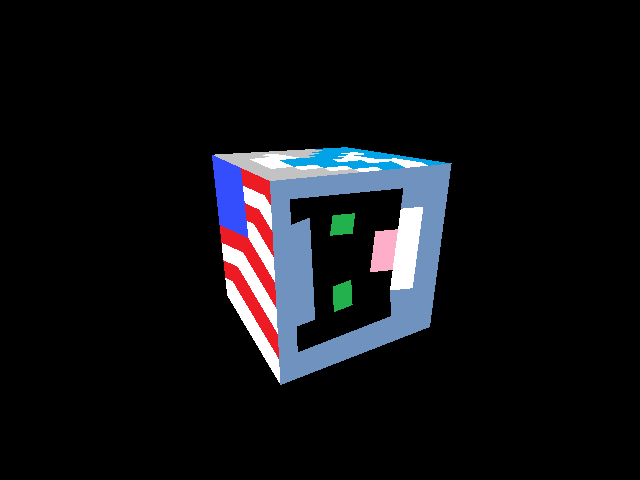
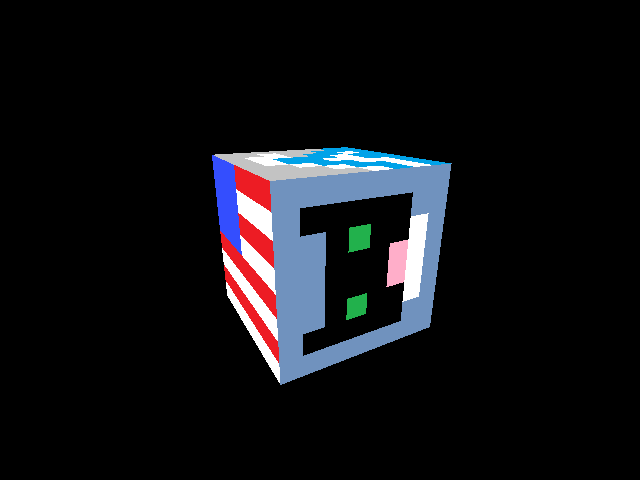
Perspective correct texture coordinate interpolation

Changed region(s): [[0.3438, 0.3125, 0.6875, 0.75]]

diff --git a/rasterize.h b/rasterize.h
@@ -4,6 +4,23 @@
 #include "triangle.h"
 
 template <typename T>
+T perspectiveCorrectBaryInterp(T const &a, T const &b, T const &c, Vec const &bary, Vec const &ws)
+{
+	Vec invWs(1 / ws.x, 1 / ws.y, 1 / ws.z);
+
+	float invWInterp = baryInterp(invWs.x, invWs.y, invWs.z, bary);
+
+	T val = 
+		(invWs.x * bary.x * a) + 
+		(invWs.y * bary.y * b) + 
+		(invWs.z * bary.z * c);
+
+	T correct = (1.0 / invWInterp) * val;
+
+	return correct;
+}
+
+template <typename T>
 T baryInterp(T const &a, T const &b, T const &c, Vec const &bary)
 {
 	return bary.x * a + bary.y * b + bary.z * c;
@@ -47,7 +64,8 @@ void rasterize(Triangle const &t, Interpolants *interps, Array2D<float> &zbuf, A
 			if (pt.z < zbuf(x, y))
 			{
 				zbuf(x, y) = pt.z;
-				fragments(x, y) = baryInterp(interps[0], interps[1], interps[2], bary);
+				Vec ws(t.a.w, t.b.w, t.c.w);
+				fragments(x, y) = perspectiveCorrectBaryInterp(interps[0], interps[1], interps[2], bary, ws);
 			}
 		}
 	}

diff --git a/msvc/test/main.cpp b/msvc/test/main.cpp
@@ -45,6 +45,7 @@ void textureMap(Array2D<Vec> const &coords, Array2D<ColorRGBA> const &texture, A
 			else
 			{
 				Vec coord = coords(y, x);
+				//auto interp = bilinear(texture, coord[0], coord[1]);
 				auto interp = nearestNeighbor(texture, coord[0], coord[1]);
 				img(y, x) = interp;
 			}
@@ -208,11 +209,17 @@ void rotateCube(sf::RenderWindow &window)
 				texCoords[tri[1]],
 				texCoords[tri[2]] };
 
+			coords[0].w = t.a.w;
+			coords[1].w = t.b.w;
+			coords[2].w = t.c.w;
+
 			for (auto it = t.asVecs(); it < t.asVecs() + 3; ++it)
 			{
 				*it = projection * (*it);
-				*it = *it / it->w;
+				float w = it->w;
+				*it = *it / w;
 				*it = toScreen * (*it);
+				it->w = w; // keep w for texture coord interpolation
 			}
 
 			rasterize(t, coords, zbuffer, fragments);

diff --git a/texture.h b/texture.h
@@ -25,10 +25,10 @@ T bilinear(Array2D<T> const &tex, float x, float y)
 	int y0 = y;
 	int y1 = y0 + 1;
 	
-	float left = x - x0;
-	float right = 1 - left;
-	float top = y - y0;
-	float bottom = 1 - top;
+	float right = x - x0;
+	float left = 1 - right;
+	float bottom = y - y0;
+	float top = 1 - bottom;
 
 	assert((x0 <= tex.columns()) && (y0 <= tex.rows()));
 
